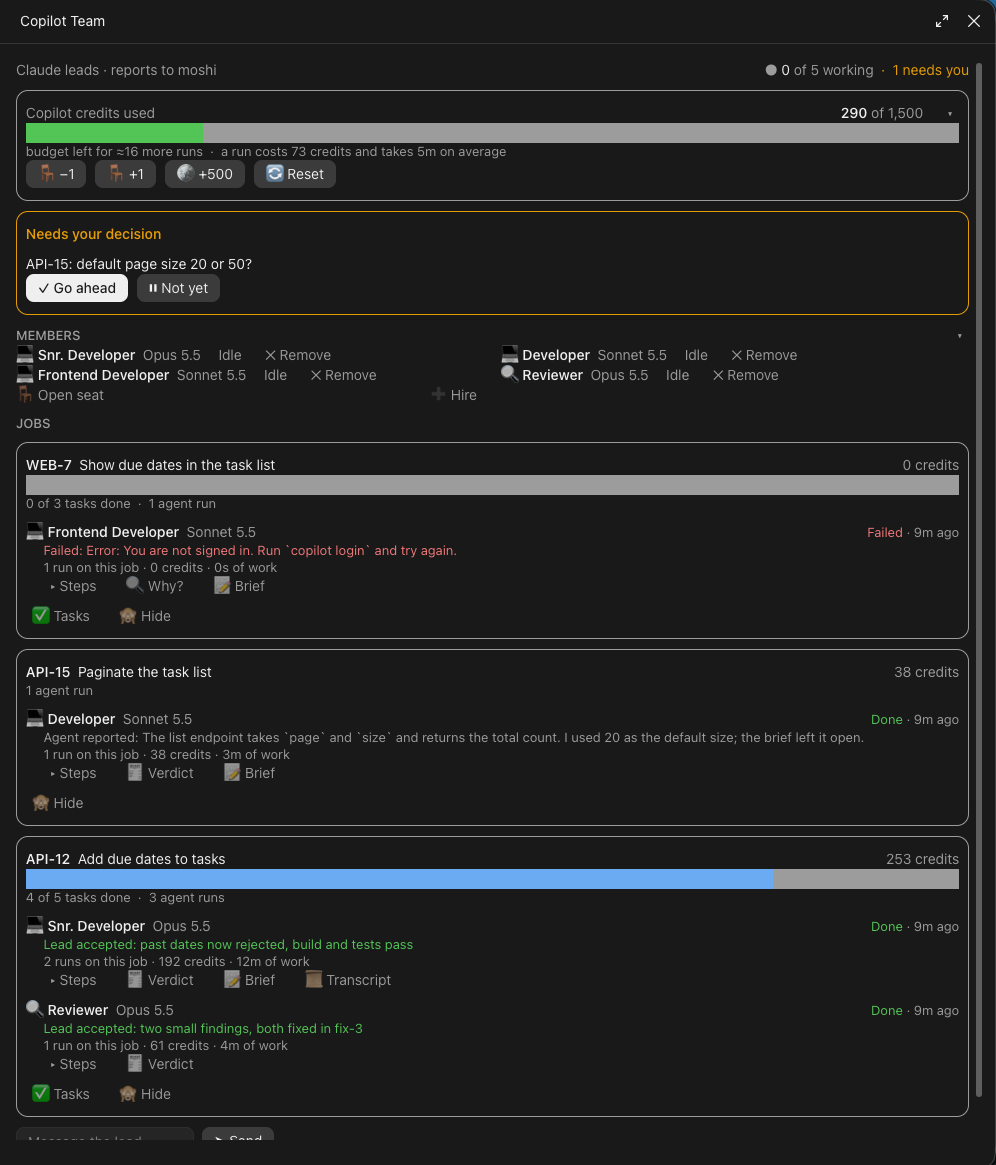
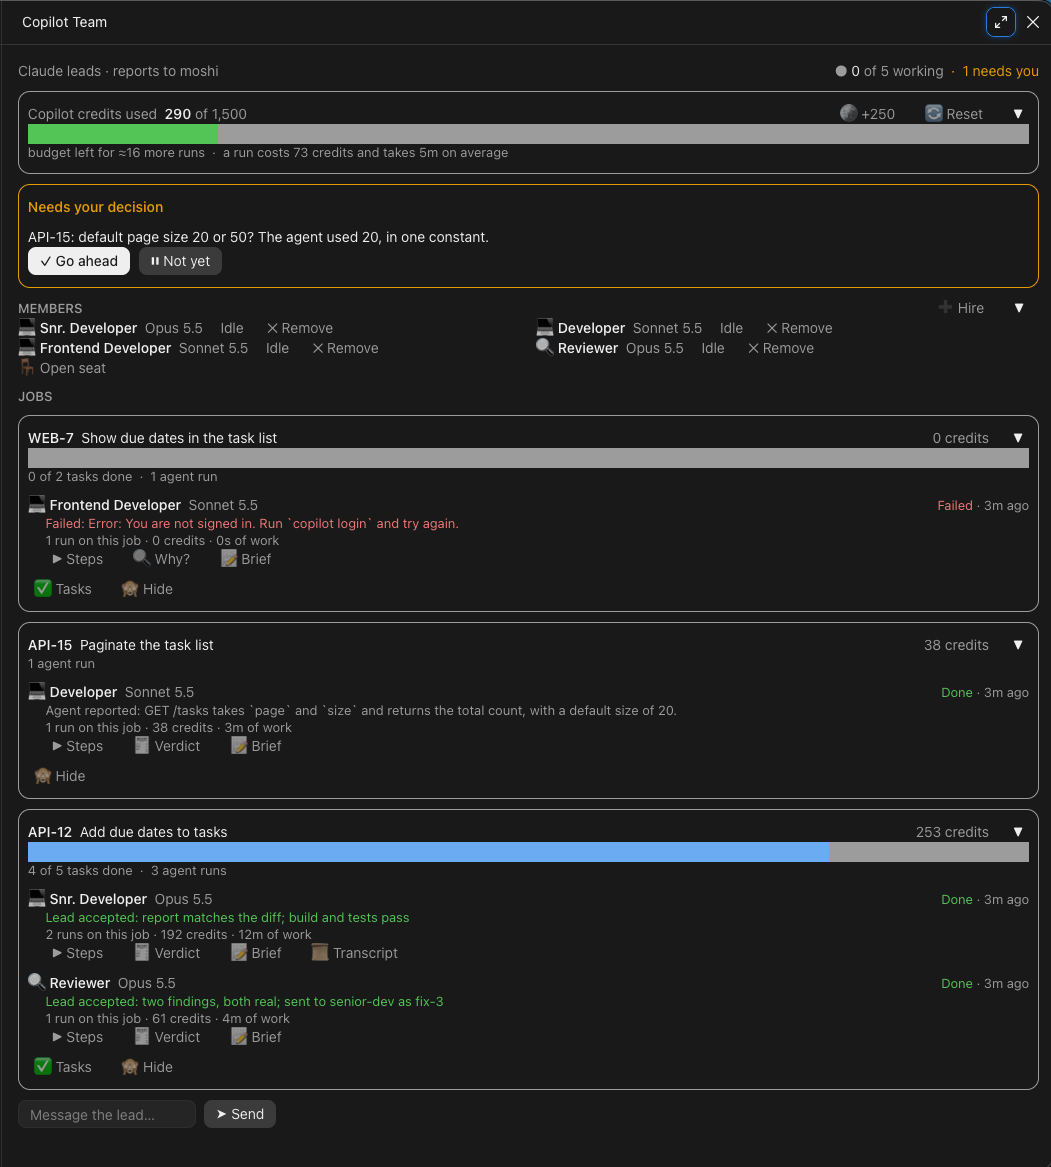
copilot-workers 0.7.2: fewer lead turns from the pane, a report marker, a refreshed demo and screenshot
Decline and Remove only change team.json now, Status is gone and Hire hides
while a request waits, so the pane no longer spends a Claude turn on them.
Agents end their report under a ## Report line, which the pane skips for the
summary and the skill reads instead of the whole log. The demo follows the
0.7.1 brief and report format, and fix-3 resumes implement-1's session.

diff --git a/plugins/copilot-workers/hooks/team.test.tsx b/plugins/copilot-workers/hooks/team.test.tsx
@@ -19,6 +19,7 @@ const FILES: Record<string, string> = {
     verdicts: { 'copilot-fix-1': { accepted: true, note: 'looks good' } },
     waiting: [],
   }),
+  [`${RUNS}/copilot-implement-2.log`]: '# role=implement model=m repo=r job=T-1 member=senior-dev\n● Build\n  └ ok\n\n## Report\nShipped it.\n# exit=0\n',
   [`${RUNS}/tasks.md`]: '- [x] first\n  - [X] nested\n* [ ] open\n',
   [`${RUNS}/copilot-fix-1.log`]: [
     '# role=fix model=claude-opus-5.5 repo=r job=T-1 member=senior-dev-2',
@@ -26,6 +27,7 @@ const FILES: Record<string, string> = {
     '  │ cat x',
     '  └ ok',
     '',
+    '## Report',
     'All done.',
     '',
     'AI Credits 120.5 (4m 10s)',
@@ -74,6 +76,8 @@ test('the pane shows the team, its budget and a job from the runs folder', { opt
     // Any markdown checklist counts: indented items and [X] included.
     expect(await ui.find({ type: 'Text', text: /2 of 3 tasks done/ })).toBeDefined()
     expect(await ui.find({ type: 'Text', text: /Lead accepted: looks good/ })).toBeDefined()
+    // The report marker isn't the summary.
+    expect(await ui.find({ type: 'Text', text: /Agent reported: Shipped it\./ })).toBeDefined()
     expect(await ui.find({ type: 'Text', text: /121 credits/ })).toBeDefined()
     // A run that exits non-zero is Failed at once, with Copilot's last line as the reason.
     expect(await ui.find({ type: 'Text', text: /Failed: zsh: command not found: copilot/ })).toBeDefined()
@@ -118,10 +122,21 @@ test('an idle member can be removed after a second press', { options: { ownerNam
 
   const roster = JSON.parse(written[`${RUNS}/team.json`] ?? '{}').roster.map((entry: { member: string }) => entry.member)
   expect(roster).toEqual(['senior-dev', 'senior-dev-2'])
-  expect(sentToLead).toEqual(['[Copilot Team · Ana] Removed Reviewer (reviewer) from the team.'])
+  // Remove only changes team.json; the lead reads it before acting, so no Claude turn is spent.
+  expect(sentToLead).toEqual([])
 
   await ui.press({ key: 'hire' })
   expect(sentToLead.at(-1)).toBe('[Copilot Team · Ana] Propose a hire.')
+
+  // While a request waits, Hire is hidden, and Decline clears it without a message.
+  written[`${RUNS}/team.json`] = JSON.stringify({ ...JSON.parse(written[`${RUNS}/team.json`] ?? '{}'), request: { seats: 1, reason: 'busy' } })
+  await ui.press({ key: 'credits-more' })
+  written[`${RUNS}/team.json`] = JSON.stringify({ ...JSON.parse(written[`${RUNS}/team.json`] ?? '{}'), creditBudget: 1000 })
+  expect(await ui.find({ key: 'request-decline' })).toBeDefined()
+  expect(await ui.find({ key: 'hire' })).toBeUndefined()
+  await ui.press({ key: 'request-decline' })
+  expect(JSON.parse(written[`${RUNS}/team.json`] ?? '{}').request).toBeUndefined()
+  expect(sentToLead).toHaveLength(1)
 
   // The 🪙 button adds the configured step, not a fixed one.
   await ui.press({ key: 'credits-more' })

diff --git a/plugins/copilot-workers/hooks/register.tsx b/plugins/copilot-workers/hooks/register.tsx
@@ -182,7 +182,7 @@ const parse = (name: string, text: string, mtimeMs: number, now: number, hasTran
     command: /^\s+│ (.+)$/m.exec(afterLast)?.[1]?.trim() ?? '',
     summary:
       status === 'done'
-        ? (answer.split('\n').map(line => line.trim()).find(Boolean) ?? '')
+        ? (answer.split('\n').map(line => line.trim()).find(line => line && !line.startsWith('#')) ?? '')
         : status === 'failed'
           ? (lastOutput ?? `exit code ${exit?.[1]}`)
           : '',
@@ -388,10 +388,7 @@ const orgChart = (rounds: Round[], team: Team): ChartLine[] => {
 
 // Every control on a member goes to the lead (the Claude session), who instructs the workers.
 const ASKS: Record<Status, { label: string; ask: (m: Member) => string }[]> = {
-  running: [
-    { label: '💬 Status', ask: m => `Status of ${m.latest.name}?` },
-    { label: '⏹ Stop', ask: m => `Stop ${m.latest.name}; what did it finish?` },
-  ],
+  running: [{ label: '⏹ Stop', ask: m => `Stop ${m.latest.name}; what did it finish?` }],
   done: [{ label: '🧾 Verdict', ask: m => `Verdict on ${m.latest.name}?` }],
   failed: [{ label: '🔍 Why?', ask: m => `${m.latest.name} failed. Why?` }],
   stopped: [
@@ -513,9 +510,9 @@ const drawTeam = async ($: EngineInterface, e: RenderInput<'Pane' | 'CommandOutp
   }
   const titles = rosterTitles(team)
   const inRoster = new Set((team.roster ?? []).map(entry => entry.member))
+  // Remove and Decline only change team.json, which the lead reads before it acts, so they cost no Claude turn.
   const remove = (member: string) => {
     removing = undefined
-    tell(`Removed ${memberTitle(titles, member)} (${member}) from the team.`)
     change(t => ({ ...t, roster: (t.roster ?? []).filter(entry => entry.member !== member) }))
   }
   const titleOf = (member: string) => memberTitle(titles, member)
@@ -694,10 +691,7 @@ const drawTeam = async ($: EngineInterface, e: RenderInput<'Pane' | 'CommandOutp
                 <Button
                   key="request-decline"
                   variant="secondary"
-                  onPress={() => {
-                    change(t => ({ ...t, request: undefined }))
-                    tell(`Declined: ${request.reason}`)
-                  }}
+                  onPress={() => change(t => ({ ...t, request: undefined }))}
                 >
                   ✕ Decline
                 </Button>
@@ -726,7 +720,7 @@ const drawTeam = async ($: EngineInterface, e: RenderInput<'Pane' | 'CommandOutp
           'org-heading',
           'Members',
           <Box flexDirection="row" columnGap={2}>
-            {link('hire', '➕ Hire', () => tell('Propose a hire.'))}
+            {!request && link('hire', '➕ Hire', () => tell('Propose a hire.'))}
             {arrow('toggle-chart', showChart, toggle(() => (showChart = !showChart)))}
           </Box>,
         )}

diff --git a/plugins/copilot-workers/skills/lead-copilot/SKILL.md b/plugins/copilot-workers/skills/lead-copilot/SKILL.md
@@ -17,9 +17,10 @@ A new session, or one that didn't start the runs, knows nothing about them yet. 
 
 The team exists to move work off Claude, and every turn of yours re-reads the whole conversation. So the cost is the number of your turns times the size of your context, and both have to stay small.
 
-- **Lead from a short session.** Everything you need is in the runs folder, so a fresh session catches up from it in a few reads. When this session is long and not about the ticket at hand, say so and suggest leading the ticket from a fresh one.
+- **Lead from a short session.** Everything you need is in the runs folder, so a fresh session catches up from it in a few reads. Every pane button is a turn of yours, so a long session makes each press expensive. When this session is long and not about the ticket at hand, say so and suggest leading the ticket from a fresh one.
+- **Read only what you need.** The agent's report: `sed -n '/^## Report/,/^Session exported/p' <log>`, never the whole log. The build: quiet, summary only (`./mvnw -q verify 2>&1 | tail -15`). The diff: `git diff --stat`, then `git diff -U2 -- <file>` for just the files a named rule is about.
 - **Don't watch runs.** Launch with `run_in_background` and wait for the notice that it exited. No `tail`, `pgrep` or log reads in between unless the user asks for a status.
-- **Copilot builds and reports, you validate the report.** The brief gives the agent the build and test command and asks it to end with a short report: the files it changed and why, each named rule and how the diff keeps it, the command it ran and its result, and anything it left open. You check the report against cheap evidence, not the code: `git diff --stat` against the files it lists and the brief's scope, the test summary in the log against the result it claims, and a look at the hunks a named rule is about. A report that doesn't match the evidence is a send-back. Run the build yourself only on the round you're about to accept. A line-by-line review is the reviewer's job, when the user asks for one.
+- **Copilot builds and reports, you validate the report.** The brief gives the agent the build and test command and asks it to end with a short report under a `## Report` line: the files it changed and why, each named rule and how the diff keeps it, the command it ran and its result, and anything it left open. You check the report against cheap evidence, not the code: `git diff --stat` against the files it lists and the brief's scope, the test summary in the log against the result it claims, and a look at the hunks a named rule is about. A report that doesn't match the evidence is a send-back. Run the build yourself only on the round you're about to accept. A line-by-line review is the reviewer's job, when the user asks for one.
 
 ## Team or yourself
 
@@ -34,7 +35,7 @@ Never pick work for the team yourself. A ticket sitting in a backlog isn't appro
 ## Starting a run
 
 1. **Pick the member** from `roster` in `team.json` and use its model. Never run more agents at once than `seats`, and never spend past `creditBudget` (counted from `budgetSince`). Say in the brief why this member got the task.
-2. **Write the brief.** Pin the design down instead of leaving it to the agent: where the code goes (look up how the codebase already handles the same kind of thing: package, naming, log and message formats, API shape), what drives each decision, what's out of scope, and the build and test command it must run and pass before it stops. Copilot loads the user's rules (the repo's `CLAUDE.md` and `~/.copilot/copilot-instructions.md`) but follows a long file loosely, so name in the brief the rules this change is most likely to break (where DTOs go, what to reuse, what never goes in logs) and tell the agent to check its diff against them before finishing and say so in its report. A round sent back for a rule costs a full run plus your review. Name the run `copilot-<role>-<n>`, with `<n>` counting up across all runs (not per role) and save the brief as `<runsDir>/copilot-<role>-<n>.brief.md` before launching. Save every follow-up prompt the same way.
+2. **Write the brief.** Pin the design down instead of leaving it to the agent: where the code goes (look up how the codebase already handles the same kind of thing: package, naming, log and message formats, API shape), what drives each decision, what's out of scope, the build and test command it must run and pass before it stops, and a closing report under a `## Report` line. Copilot loads the user's rules (the repo's `CLAUDE.md` and `~/.copilot/copilot-instructions.md`) but follows a long file loosely, so name in the brief the rules this change is most likely to break (where DTOs go, what to reuse, what never goes in logs) and tell the agent to check its diff against them before finishing and say so in its report. A round sent back for a rule costs a full run plus your review. Name the run `copilot-<role>-<n>`, with `<n>` counting up across all runs (not per role) and save the brief as `<runsDir>/copilot-<role>-<n>.brief.md` before launching. Save every follow-up prompt the same way.
 3. **Launch it in the background**, header first and exit code last:
 
    ```bash
@@ -67,14 +68,12 @@ For a follow-up round on the same agent, resume its session (`copilot --resume=<
 
 Every button sends a short message starting `[Copilot Team · <name>]`. Read them as:
 
-- `Status of <run>?`: read that run's log and say in a few lines how it's going.
 - `Stop <run>; what did it finish?`: stop it with `pkill -f -- "-n <run>"` (the run may belong to another session), append `# exit=130` to its log, then report what was done.
 - `Verdict on <run>?`: check the round as under "When a run ends", give your verdict and record it in `lead.json`.
 - `<run> stopped early. Why? Restart if it makes sense.`: no output for ten minutes and no exit line.
 - `<run> failed. Why?`: as under "Exit code non-zero" above.
 - `Propose a hire.`: write one `request.hire` in `team.json`, with the role and model the current jobs need and why in `reason`; add `seats: 1` when every seat is taken.
-- `Approved: …` / `Declined: …`: the pane has already applied it to `team.json`; on Declined, work within the current team.
-- `Removed <title> (<member>) from the team.`: the pane has already taken them off the roster. Give them no new runs; their past runs stay on their jobs.
+- `Approved: …`: the pane has already applied it to `team.json`.
 - `Go ahead: …` / `Not yet: …`: the answer to one of your `waiting` items.
 
-Anything else is the user typing in the message box.
+Decline and Remove send nothing: they only change `team.json`, so a request that's gone was declined, and a member off the roster gets no new runs (their past runs stay on their jobs). Anything else is the user typing in the message box.

diff --git a/plugins/copilot-workers/README.md b/plugins/copilot-workers/README.md
@@ -11,11 +11,11 @@ What you get in the pane:
 - **Header:** who you are to the lead, how many agents are working against your seat limit, and how many decisions are waiting on you.
 - **Credits:** spend against your budget with a meter, roughly how many more agent runs the rest buys, what a run costs on average, and buttons for more budget and a new budget period.
 - **Needs your decision:** requests from the lead (a hire, more seats or credits) and questions it's waiting on, with Approve/Decline or Go ahead/Not yet.
-- **Members:** everyone on the roster with their model and whether they're working, plus open seats. ➕ Hire next to the heading asks the lead to propose a new member. An idle member can be removed (✕ Remove, then ✓ Remove to confirm); their past runs stay on their jobs.
-- **Jobs:** one card per ticket or task, with task progress counted from the job's checklist (any markdown file with `- [ ]` / `- [x]` items, such as an OpenSpec `tasks.md`; jobs without one simply show no bar), and per member the current step and command, the lead's verdict on its last run, and its runs, credits and time on the job. **▸ Steps** opens what the lead asked and the agent's last steps; **📝 Brief**, **📜 Transcript** and **✅ Tasks** open the files, and 💬 Status, ⏹ Stop, 🧾 Verdict, 🔍 Why? and 🔁 Restart ask the lead about a member's run. Each finished run carries the lead's verdict (accepted or sent back) or, before review, the agent's own summary.
+- **Members:** everyone on the roster with their model and whether they're working, plus open seats. ➕ Hire next to the heading asks the lead to propose a new member; it's hidden while a request waits on you. An idle member can be removed (✕ Remove, then ✓ Remove to confirm); their past runs stay on their jobs.
+- **Jobs:** one card per ticket or task, with task progress counted from the job's checklist (any markdown file with `- [ ]` / `- [x]` items, such as an OpenSpec `tasks.md`; jobs without one simply show no bar), and per member the current step and command, the lead's verdict on its last run, and its runs, credits and time on the job. **▸ Steps** opens what the lead asked and the agent's last steps; **📝 Brief**, **📜 Transcript** and **✅ Tasks** open the files, and ⏹ Stop, 🧾 Verdict, 🔍 Why? and 🔁 Restart ask the lead about a member's run. Each finished run carries the lead's verdict (accepted or sent back) or, before review, the agent's own summary.
 - **Message the lead:** a box that sends your message straight into the Claude session.
 
-Every button sends a message to the Claude session (prefixed `[Copilot Team · <you>]`); the agents never take orders from the pane directly. On the phone over Remote Control, `/copilot-workers` prints a text snapshot instead.
+Buttons that need the lead send a message to the Claude session (prefixed `[Copilot Team · <you>]`); Decline and Remove only change `team.json`, which the lead reads before it acts, so they cost no Claude turn. The agents never take orders from the pane directly. On the phone over Remote Control, `/copilot-workers` prints a text snapshot instead.
 
 ## Requirements
 

diff --git a/plugins/copilot-workers/demo/runs/copilot-implement-1.brief.md b/plugins/copilot-workers/demo/runs/copilot-implement-1.brief.md
@@ -1,3 +1,19 @@
-Add due dates to tasks in todo-api (API-12). You're the Snr. Developer on this because it adds a migration.
+Add due dates to tasks in todo-api (API-12). You're on this as the Snr. Developer because it adds a migration and touches validation every endpoint shares.
 
-Add a nullable `due_date` column (Flyway, next version), accept `dueDate` on create and update, and return it in the task response. Follow how `TaskRequest` already validates `title`. Out of scope: reminders, the web app. Verify with `./mvnw test`.
+What to build: a nullable `due_date` column, `dueDate` accepted on create and update, and `dueDate` returned in the task response.
+
+Where it goes and why:
+- The migration is the next Flyway version, `V7__task_due_date.sql`. Never edit V1 to V6: they've run on staging.
+- Validation goes on `TaskRequest` with Bean Validation annotations, the way `title` is validated there. Don't add checks in `TaskController`.
+- `dueDate` is an ISO date (`2026-11-30`), `LocalDate` in Java, no time part.
+
+Out of scope: reminders and the web app (that's WEB-7).
+
+Rules this change is most likely to break, so check your diff against them before you finish:
+- Request and response DTOs stay in `todo/task/dto`, not next to the service.
+- Errors go through `ApiExceptionHandler`, so a validation failure has the same JSON shape as a blank title.
+- No request bodies in log lines.
+
+Run `./mvnw -q test` and make it pass before you stop. Don't commit.
+
+End with a short report: the files you changed and why, each rule above and how the diff keeps it, the command you ran and its result, and anything you left open.

diff --git a/plugins/copilot-workers/demo/runs/copilot-implement-4.brief.md b/plugins/copilot-workers/demo/runs/copilot-implement-4.brief.md
@@ -1,1 +1,18 @@
-Paginate GET /tasks in todo-api (API-15). Add `page` and `size` query parameters and return the total count, using Spring Data's `Pageable` like `ProjectController` does. The default page size isn't decided yet; pick one and say which.
+Paginate GET /tasks in todo-api (API-15). You're on this as the Developer: it follows a pattern the codebase already has and needs no migration.
+
+What to build: `page` and `size` query parameters on GET /tasks, and the total count in the response.
+
+Where it goes and why:
+- Take a Spring Data `Pageable` in `TaskController.list` and return a `Page`, the way `ProjectController.list` does. Reuse its `PageResponse` DTO rather than writing a second one.
+- The default page size is still an open question with the user. Use 20 for now, in one constant `DEFAULT_PAGE_SIZE` next to the controller, so changing it to 50 is a one-line follow-up.
+- Cap `size` at 100, as `ProjectController` does.
+
+Out of scope: sorting and filtering.
+
+Rules this change is most likely to break, so check your diff against them before you finish:
+- Response DTOs stay in `todo/task/dto`.
+- The existing GET /tasks tests keep passing unchanged; the web app reads the current response shape.
+
+Run `./mvnw -q test` and make it pass before you stop. Don't commit.
+
+End with a short report: the files you changed and why, each rule above and how the diff keeps it, the command you ran and its result, and anything you left open.

diff --git a/plugins/copilot-workers/demo/runs/copilot-implement-5.brief.md b/plugins/copilot-workers/demo/runs/copilot-implement-5.brief.md
@@ -1,1 +1,18 @@
-Show each task's due date in the task list in todo-web (WEB-7), and highlight overdue tasks. Follow the task list's existing date formatting.
+Show each task's due date in the task list in todo-web (WEB-7), and highlight overdue ones. You're on this as the Frontend Developer: it's a React change only.
+
+What to build: the due date next to each task in `TaskList.tsx`, and an overdue task (due before today, in the user's time zone) highlighted.
+
+Where it goes and why:
+- Format the date with the existing `formatDate` in `src/lib/dates.ts`, the way `TaskDetail.tsx` shows created dates.
+- Highlight with the `text-danger` class the list already uses for failed saves. No new colours.
+- A task without a due date shows nothing, not a placeholder.
+
+Out of scope: editing the due date (the edit form) and the API, which already returns `dueDate` (API-12).
+
+Rules this change is most likely to break, so check your diff against them before you finish:
+- No new date library; `src/lib/dates.ts` covers it.
+- Components stay in `src/components/tasks`.
+
+Run `npm test -- --run` and make it pass before you stop. Don't commit.
+
+End with a short report: the files you changed and why, each rule above and how the diff keeps it, the command you ran and its result, and anything you left open.

diff --git a/plugins/copilot-workers/demo/README.md b/plugins/copilot-workers/demo/README.md
@@ -8,4 +8,4 @@ cp -r plugins/copilot-workers/demo/runs ~/copilot-team-demo
 
 Then set the plugin's `runsDir` option to `~/copilot-team-demo` and open the pane with `/copilot-workers`. Set `runsDir` back to empty for your real runs.
 
-What it shows: API-12 went through a run the lead sent back, a review and an accepted fix; API-15 has a finished run the lead hasn't reviewed yet, plus a question for you; WEB-7's run failed because Copilot wasn't signed in. One seat is open.
+What it shows: on API-12, the user asked for a review of the first run, the lead sent that run back with the review's two findings, and the developer fixed them in the same Copilot session, which the lead accepted. API-15 has a finished run the lead hasn't reviewed yet, plus a question for you. WEB-7's run failed because Copilot wasn't signed in. One seat is open. Each brief and agent report follows the format the `lead-copilot` skill asks for, so they double as examples.

diff --git a/plugins/copilot-workers/demo/runs/copilot-fix-3.brief.md b/plugins/copilot-workers/demo/runs/copilot-fix-3.brief.md
@@ -1,1 +1,8 @@
-Two things from review on API-12: reject a due date in the past with a 400 (same error shape as a blank title), and add an index on `due_date` in the same migration. Add a test for each.
+Two findings from the review of your API-12 change, both yours to fix in this session:
+
+1. A due date in the past is accepted. Reject it with a 400: `@FutureOrPresent` on `TaskRequest.dueDate`, so it goes through `ApiExceptionHandler` like a blank title does.
+2. `due_date` has no index, and the web app will query overdue tasks. Add it to `V7__task_due_date.sql` rather than a new V8: V7 hasn't left this branch.
+
+Add a test for each, plus one showing today's date is accepted. Same rules as before: DTOs in `todo/task/dto`, errors through `ApiExceptionHandler`, no request bodies in logs.
+
+Run `./mvnw -q test` and make it pass before you stop. End with the same short report as last time.

diff --git a/plugins/copilot-workers/demo/runs/copilot-review-2.brief.md b/plugins/copilot-workers/demo/runs/copilot-review-2.brief.md
@@ -1,0 +1,8 @@
+Review the API-12 change in todo-api before it goes further: `git diff main...HEAD`. You're the reviewer because the user asked for a review of this one. You can't write files; report only.
+
+API-12 adds a nullable `due_date` to tasks, accepted on create and update and returned in the response. Check:
+- Validation: is every bad `dueDate` rejected with a 400 in the same shape as a blank title?
+- The migration: is it a new Flyway version, and does it support the overdue query the web app will run (`due_date < today`)?
+- The rules from the implementation brief: DTOs in `todo/task/dto`, errors through `ApiExceptionHandler`, no request bodies in logs.
+
+End with a short report: each finding with file and line, how serious it is and what you'd change. Say plainly if you found nothing.

diff --git a/plugins/copilot-workers/demo/runs/copilot-fix-3.md b/plugins/copilot-workers/demo/runs/copilot-fix-3.md
@@ -1,5 +1,5 @@
 # Copilot session: copilot-fix-3
 
-**Lead:** Two things from review on API-12: reject a due date in the past with a 400, and add an index on `due_date`.
+**Lead:** Two findings from the review of your API-12 change: a due date in the past is accepted, and `due_date` has no index. Reject past dates with a 400 through `ApiExceptionHandler`, add the index to V7, and test both.
 
-**Copilot:** Past due dates now get a 400, and `due_date` has an index. 67 tests pass, three of them new.
+**Copilot:** Past due dates now get a 400, and `due_date` has an index. 67 tests pass, three of them new. The rules from the brief hold, and nothing is left open.

diff --git a/plugins/copilot-workers/demo/runs/tasks/WEB-7.md b/plugins/copilot-workers/demo/runs/tasks/WEB-7.md
@@ -2,4 +2,3 @@
 
 - [ ] Show the due date next to each task
 - [ ] Highlight overdue tasks
-- [ ] Add a date picker to the edit form
